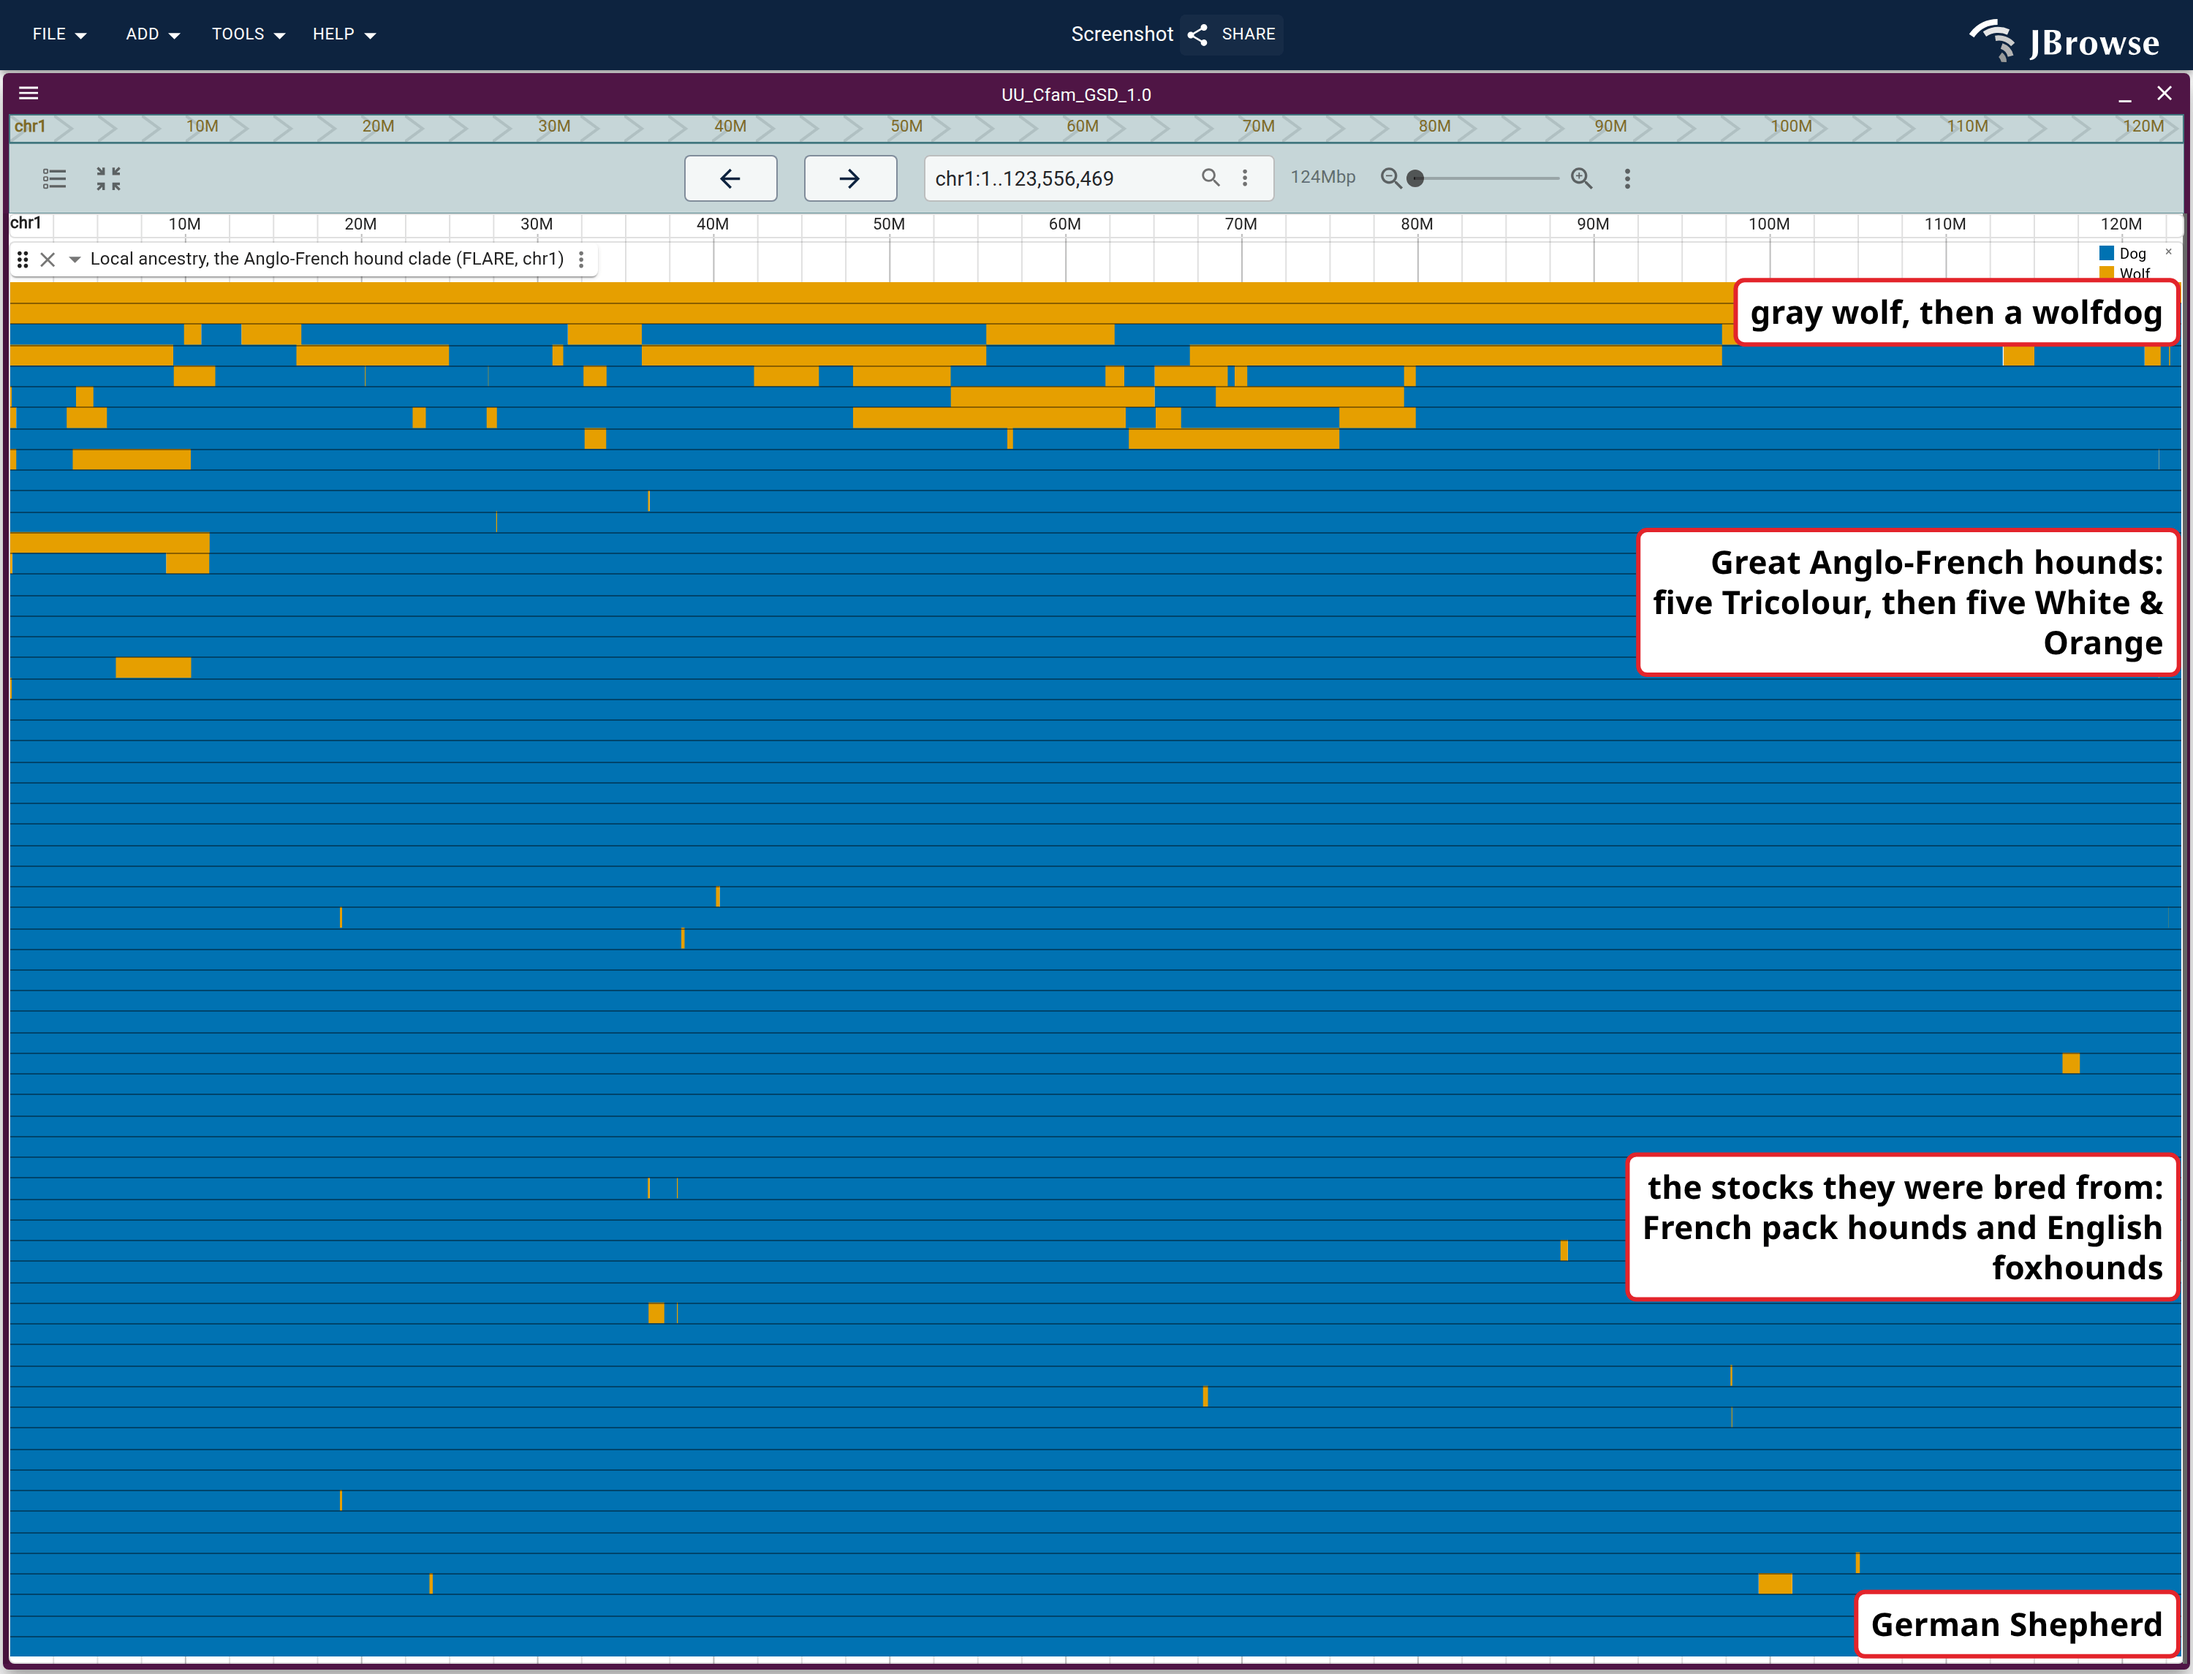
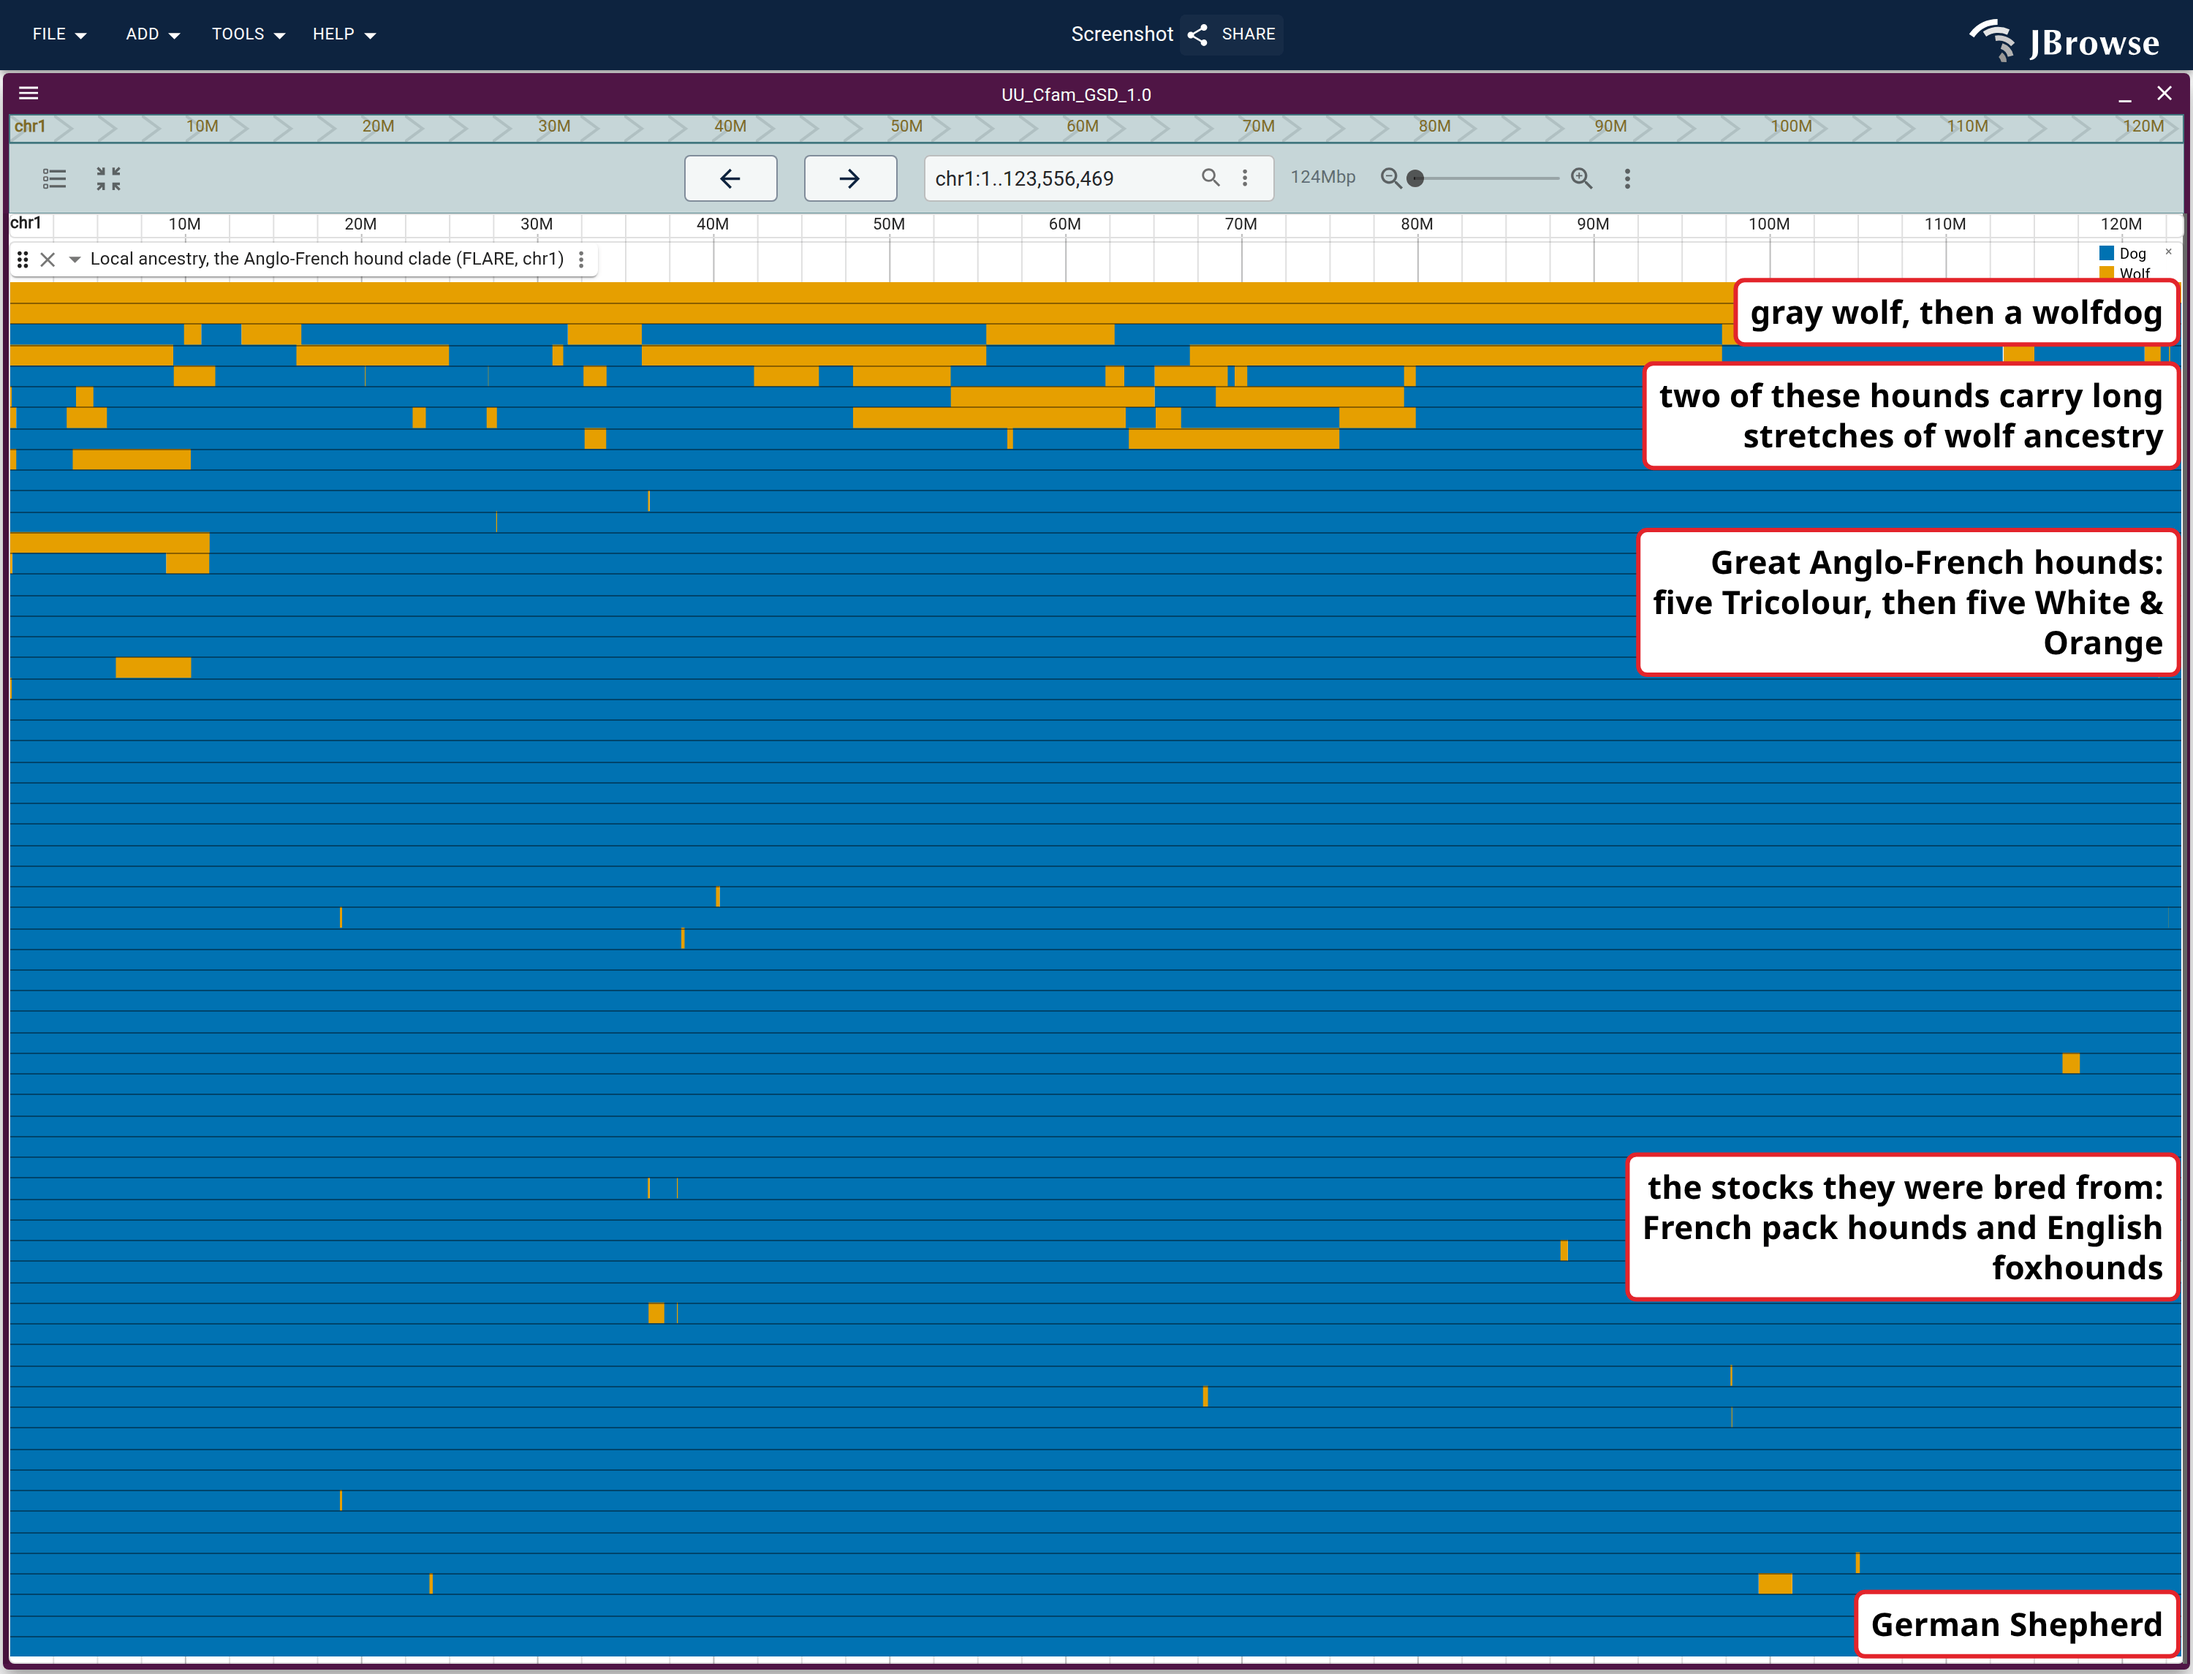
docs(website): say the hound figure's finding on it, and unstack two legends
Three fixes found by re-reading the last round of screenshot work against the
tree rather than against its notes.

The hound clade figure showed that two of ten Great Anglo-French hounds carry
long wolf tracts and left a reader to infer it from where the orange is; a
fourth pill now says it, anchored on those two animals' four rows. Over the chr1
it draws they are 17.4% and 15.7% wolf against a clade whose next-highest animal
is 5.7% -- numbers that stay in the comment rather than on the image, since they
come from the BED rather than from a publication. Right-aligned like the rest,
which the data allows: neither animal has a wolf tract in the right 22% of chr1.

multisv_rhd drew two floating legends and the lower one landed on the records it
was meant to explain, clipping HGSV_1834 and HGSV_1835 to `HGS... <DU...`. The
SV-type key is also the redundant one -- every record carries its class in its
own label -- so it is hidden and the matrix's genotype key, which names fills no
text on screen accounts for, stays.

And hic/whole_genome kept a paragraph arguing for a log ramp forty lines above
the block explaining why this file needs a linear one. It described the
intra-only file the figure no longer loads.

Claude-Session: https://claude.ai/code/session_01FBreMzpTFaZ5dTiJmUtmrs

Changed region(s): [[0.744, 0.217, 1.0, 0.279]]

diff --git a/website/scripts/specs/alignments.ts b/website/scripts/specs/alignments.ts
@@ -538,16 +538,14 @@ export const alignmentsSpecs: ScreenshotSpec[] = [
 
   // The same region-pair machinery taken to the whole genome: every chromosome
   // displayed at once, so the fetch is every chromosome against every other one
-  // and the picture is the block diagonal. `displayedRegionNames` is the
-  // declarative way in — whole chromosomes in the order given, no menu to drive
-  // — and it names the 24 main ones so the unplaced and alt contigs don't take a
-  // third of the width for slivers too narrow to draw a triangle in.
+  // and the picture is the whole pyramid rather than its diagonal.
+  // `displayedRegionNames` is the declarative way in — whole chromosomes in the
+  // order given, no menu to drive — and it names the 24 main ones so the
+  // unplaced and alt contigs don't take a third of the width for slivers too
+  // narrow to draw a triangle in.
   //
-  // useLogScale is not decoration here, it is what makes the figure exist. At
-  // 2.4 Mb/px contact frequency has decayed over almost every bin on screen, so
-  // on the linear ramp all 24 triangles render as a 1px pink smear along the
-  // diagonal (rendered it that way first). On log they are solid, and the
-  // centromeres show as the notch out of each one.
+  // The ramp and the track height are a property of the FILE, not of the view —
+  // both are commented where they are set, and both moved when the file did.
   //
   // A FILE WITH INTER-CHROMOSOMAL BLOCKS IN IT (reviewer: "ideally the whole
   // genome hic we use has inter-chromosomal connections"). The demo's own

diff --git a/website/scripts/specs/dog10k.ts b/website/scripts/specs/dog10k.ts
@@ -509,6 +509,30 @@ export const dog10kSpecs: ScreenshotSpec[] = [
         },
         textAlign: 'end',
       },
+      // THE FINDING, said on the figure rather than left to be inferred from
+      // where the orange is. Anchored on rows 4-7 -- Tricolour 1 and 2, both
+      // haplotypes -- which are the two animals that carry it: over the chr1
+      // this figure draws they are 17.4% and 15.7% wolf with tracts to 15.5 Mb,
+      // against a clade whose next-highest animal is 5.7% and whose median is
+      // ~0. Those numbers stay OFF the image (they are computed from the BED,
+      // not published) -- the pill says what the picture shows, and stays two
+      // lines like its neighbours: four lines of it butted into the group pill
+      // below and made the right-hand column read as one wall of text.
+      //
+      // Right-aligned like the others, and free to be: neither animal has a
+      // single wolf tract in the right 22% of chr1 (queried over the BED the
+      // track loads), so the pill covers blue either side of nothing.
+      {
+        type: 'text',
+        text: 'two of these hounds carry long\nstretches of wolf ancestry',
+        anchor: {
+          track: 'dog10k_anglofrench',
+          fracY: 6 / 66,
+          alignX: 'right',
+          dx: -12,
+        },
+        textAlign: 'end',
+      },
       {
         type: 'text',
         text: 'the stocks they were bred from:\nFrench pack hounds and English foxhounds',

diff --git a/website/scripts/specs/ui.ts b/website/scripts/specs/ui.ts
@@ -493,6 +493,22 @@ export const uiSpecs: ScreenshotSpec[] = [
     viewportHeight: 980,
     settleMs: 35000,
     hideTooltip: true,
+    // The record lane's SV-type key floats at its own top-right, on top of the
+    // last two records' labels (HGSV_1832 and HGSV_1835 came out as `HGS… <DU…`
+    // and a clipped `<DEL> 18.2Kb`). It is also the one key here that names
+    // nothing new: every record is drawn with its class IN its label (`<DEL>`,
+    // `<CNV>`, `<INS:ME:ALU>`), where a matrix cell carries no text at all and
+    // the genotype key above it is the only thing naming those fills. So the
+    // record lane's key goes and the matrix's stays.
+    //
+    // Scoped through the record track's own rendering container: both tracks
+    // portal a `Hide legend` box into their own TrackContainer overlay (a
+    // sibling of that container inside the track Paper — see
+    // TrackOverlayPortal), so a bare `[title="Hide legend"]` would take the
+    // genotype key instead, being first in the DOM.
+    hideSelectors: [
+      '[data-testid$="-kgp_sv_records"] ~ div div:has(> button[title="Hide legend"])',
+    ],
     actions: [
       { type: 'rightclick', from: { x: 750, y: 450 } },
       { type: 'waitForText', text: 'Sort by genotype' },
